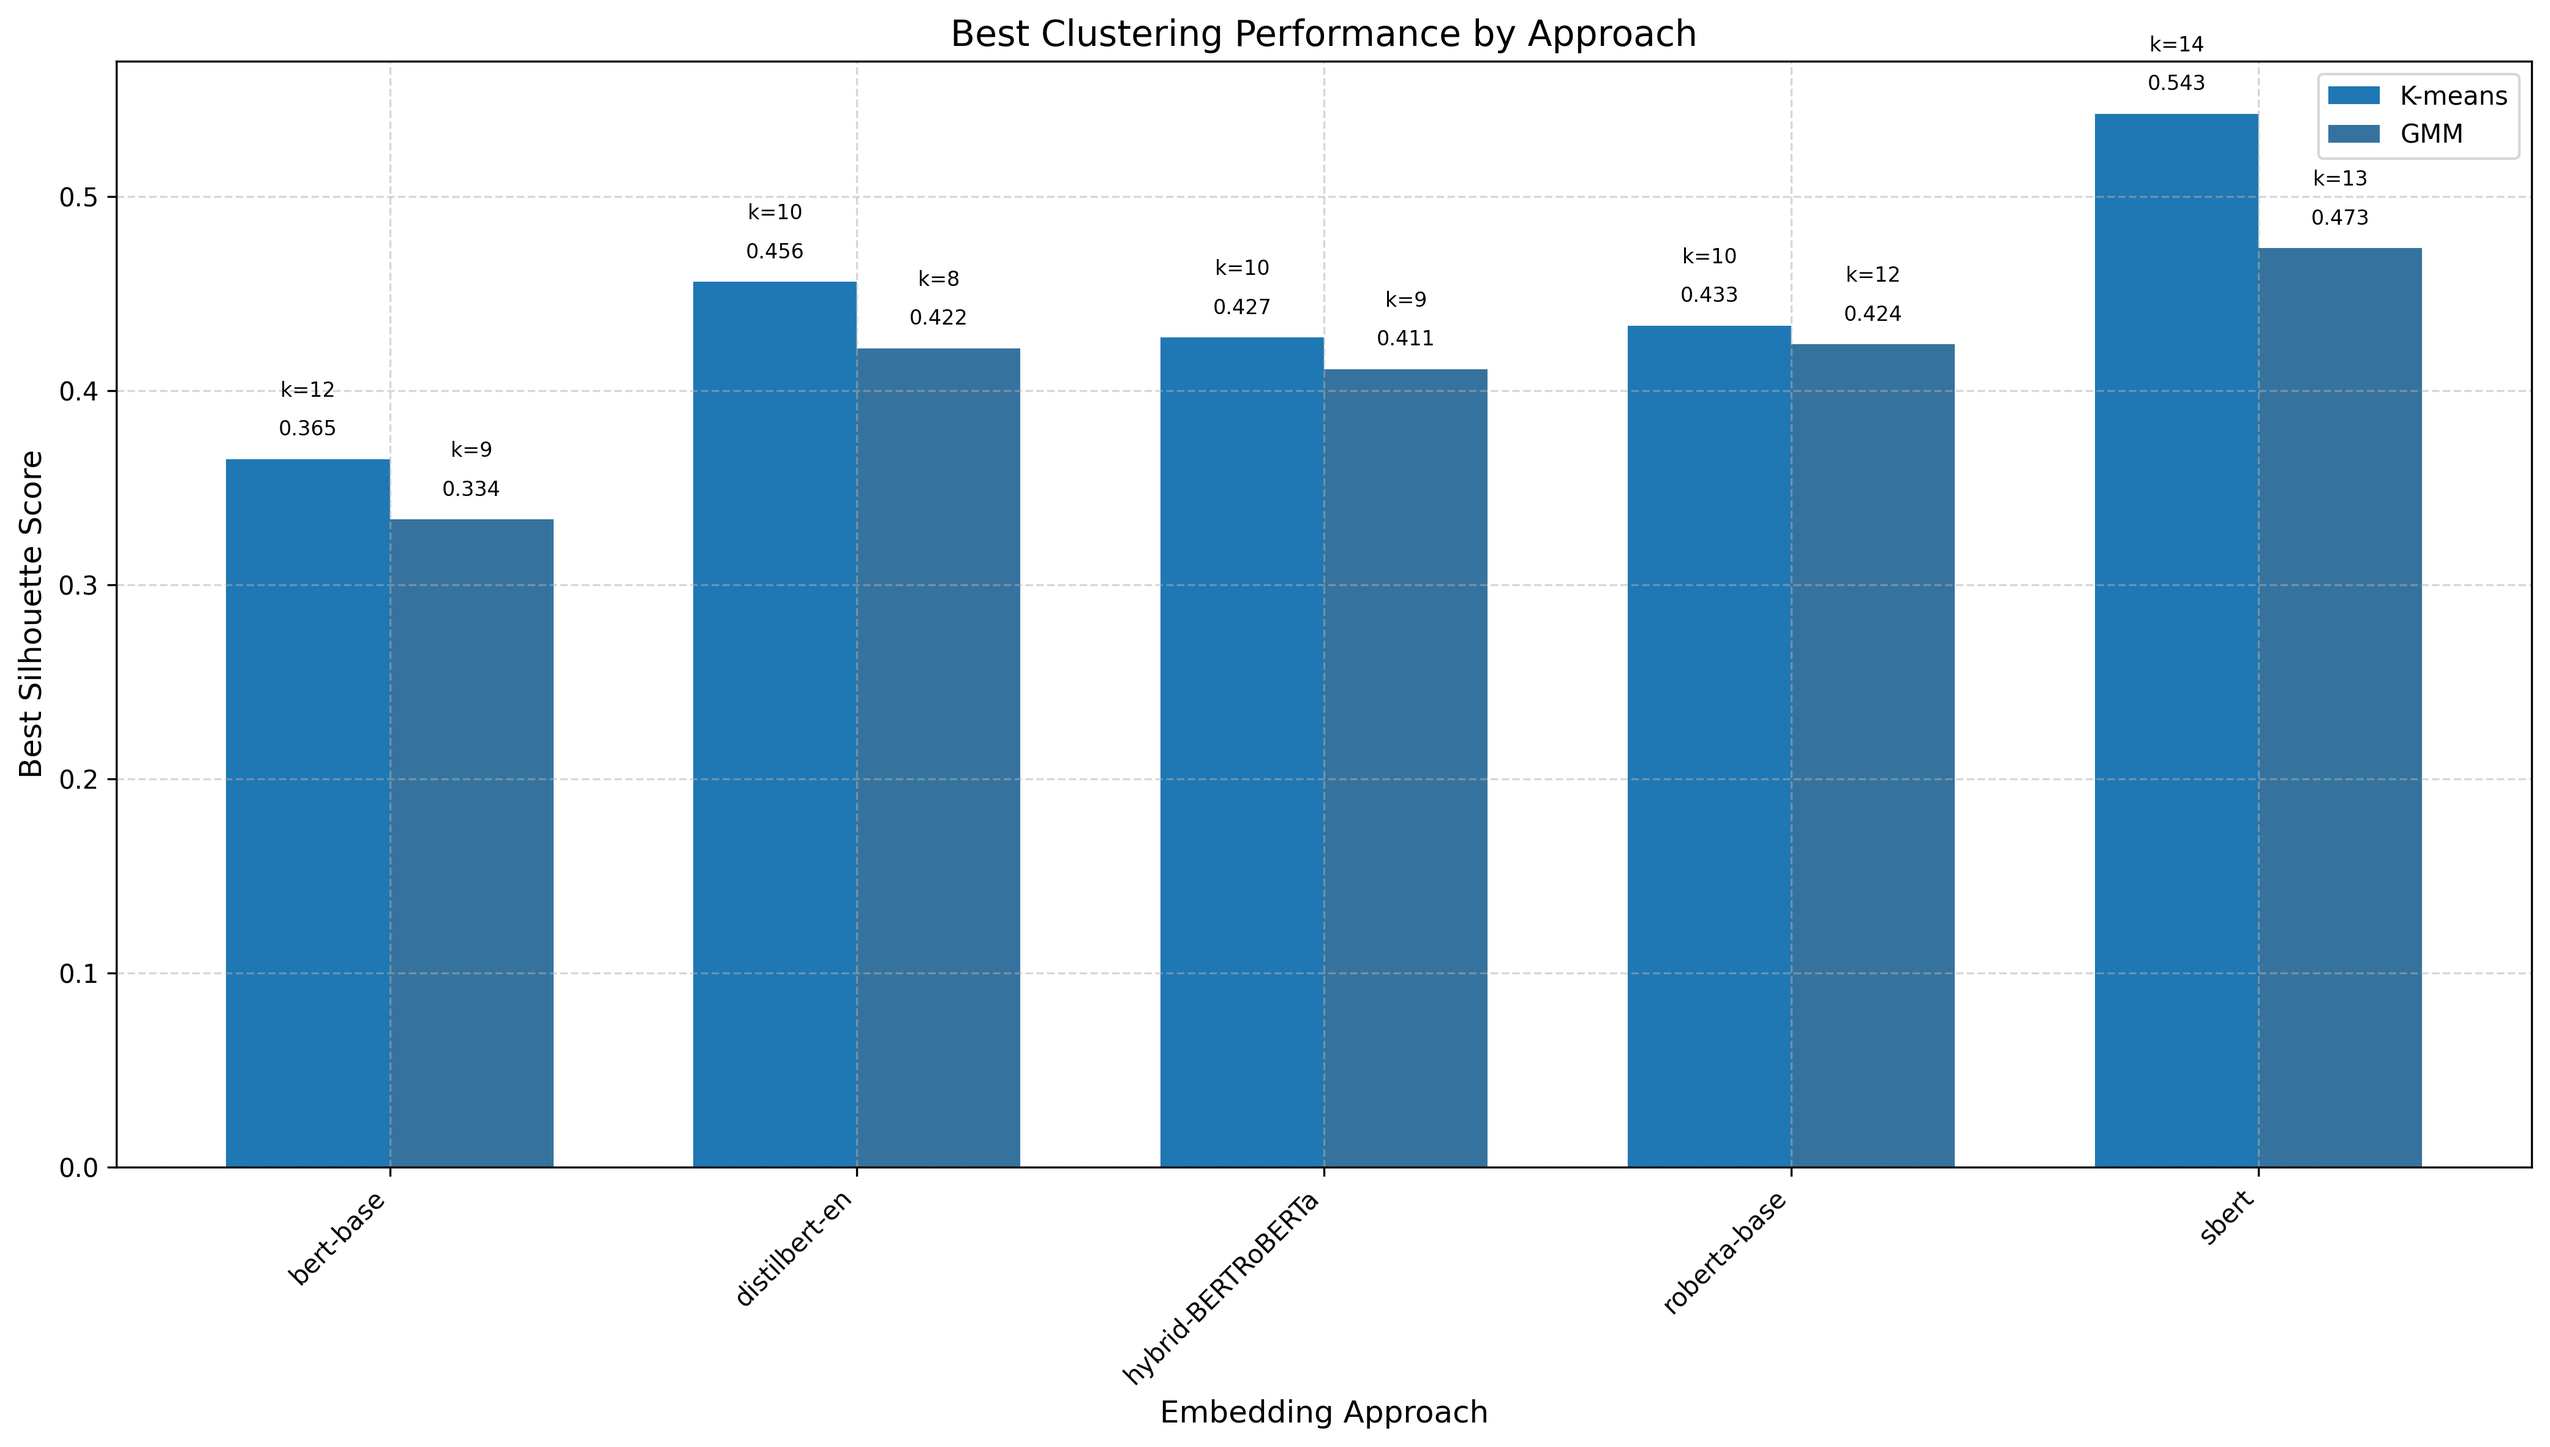
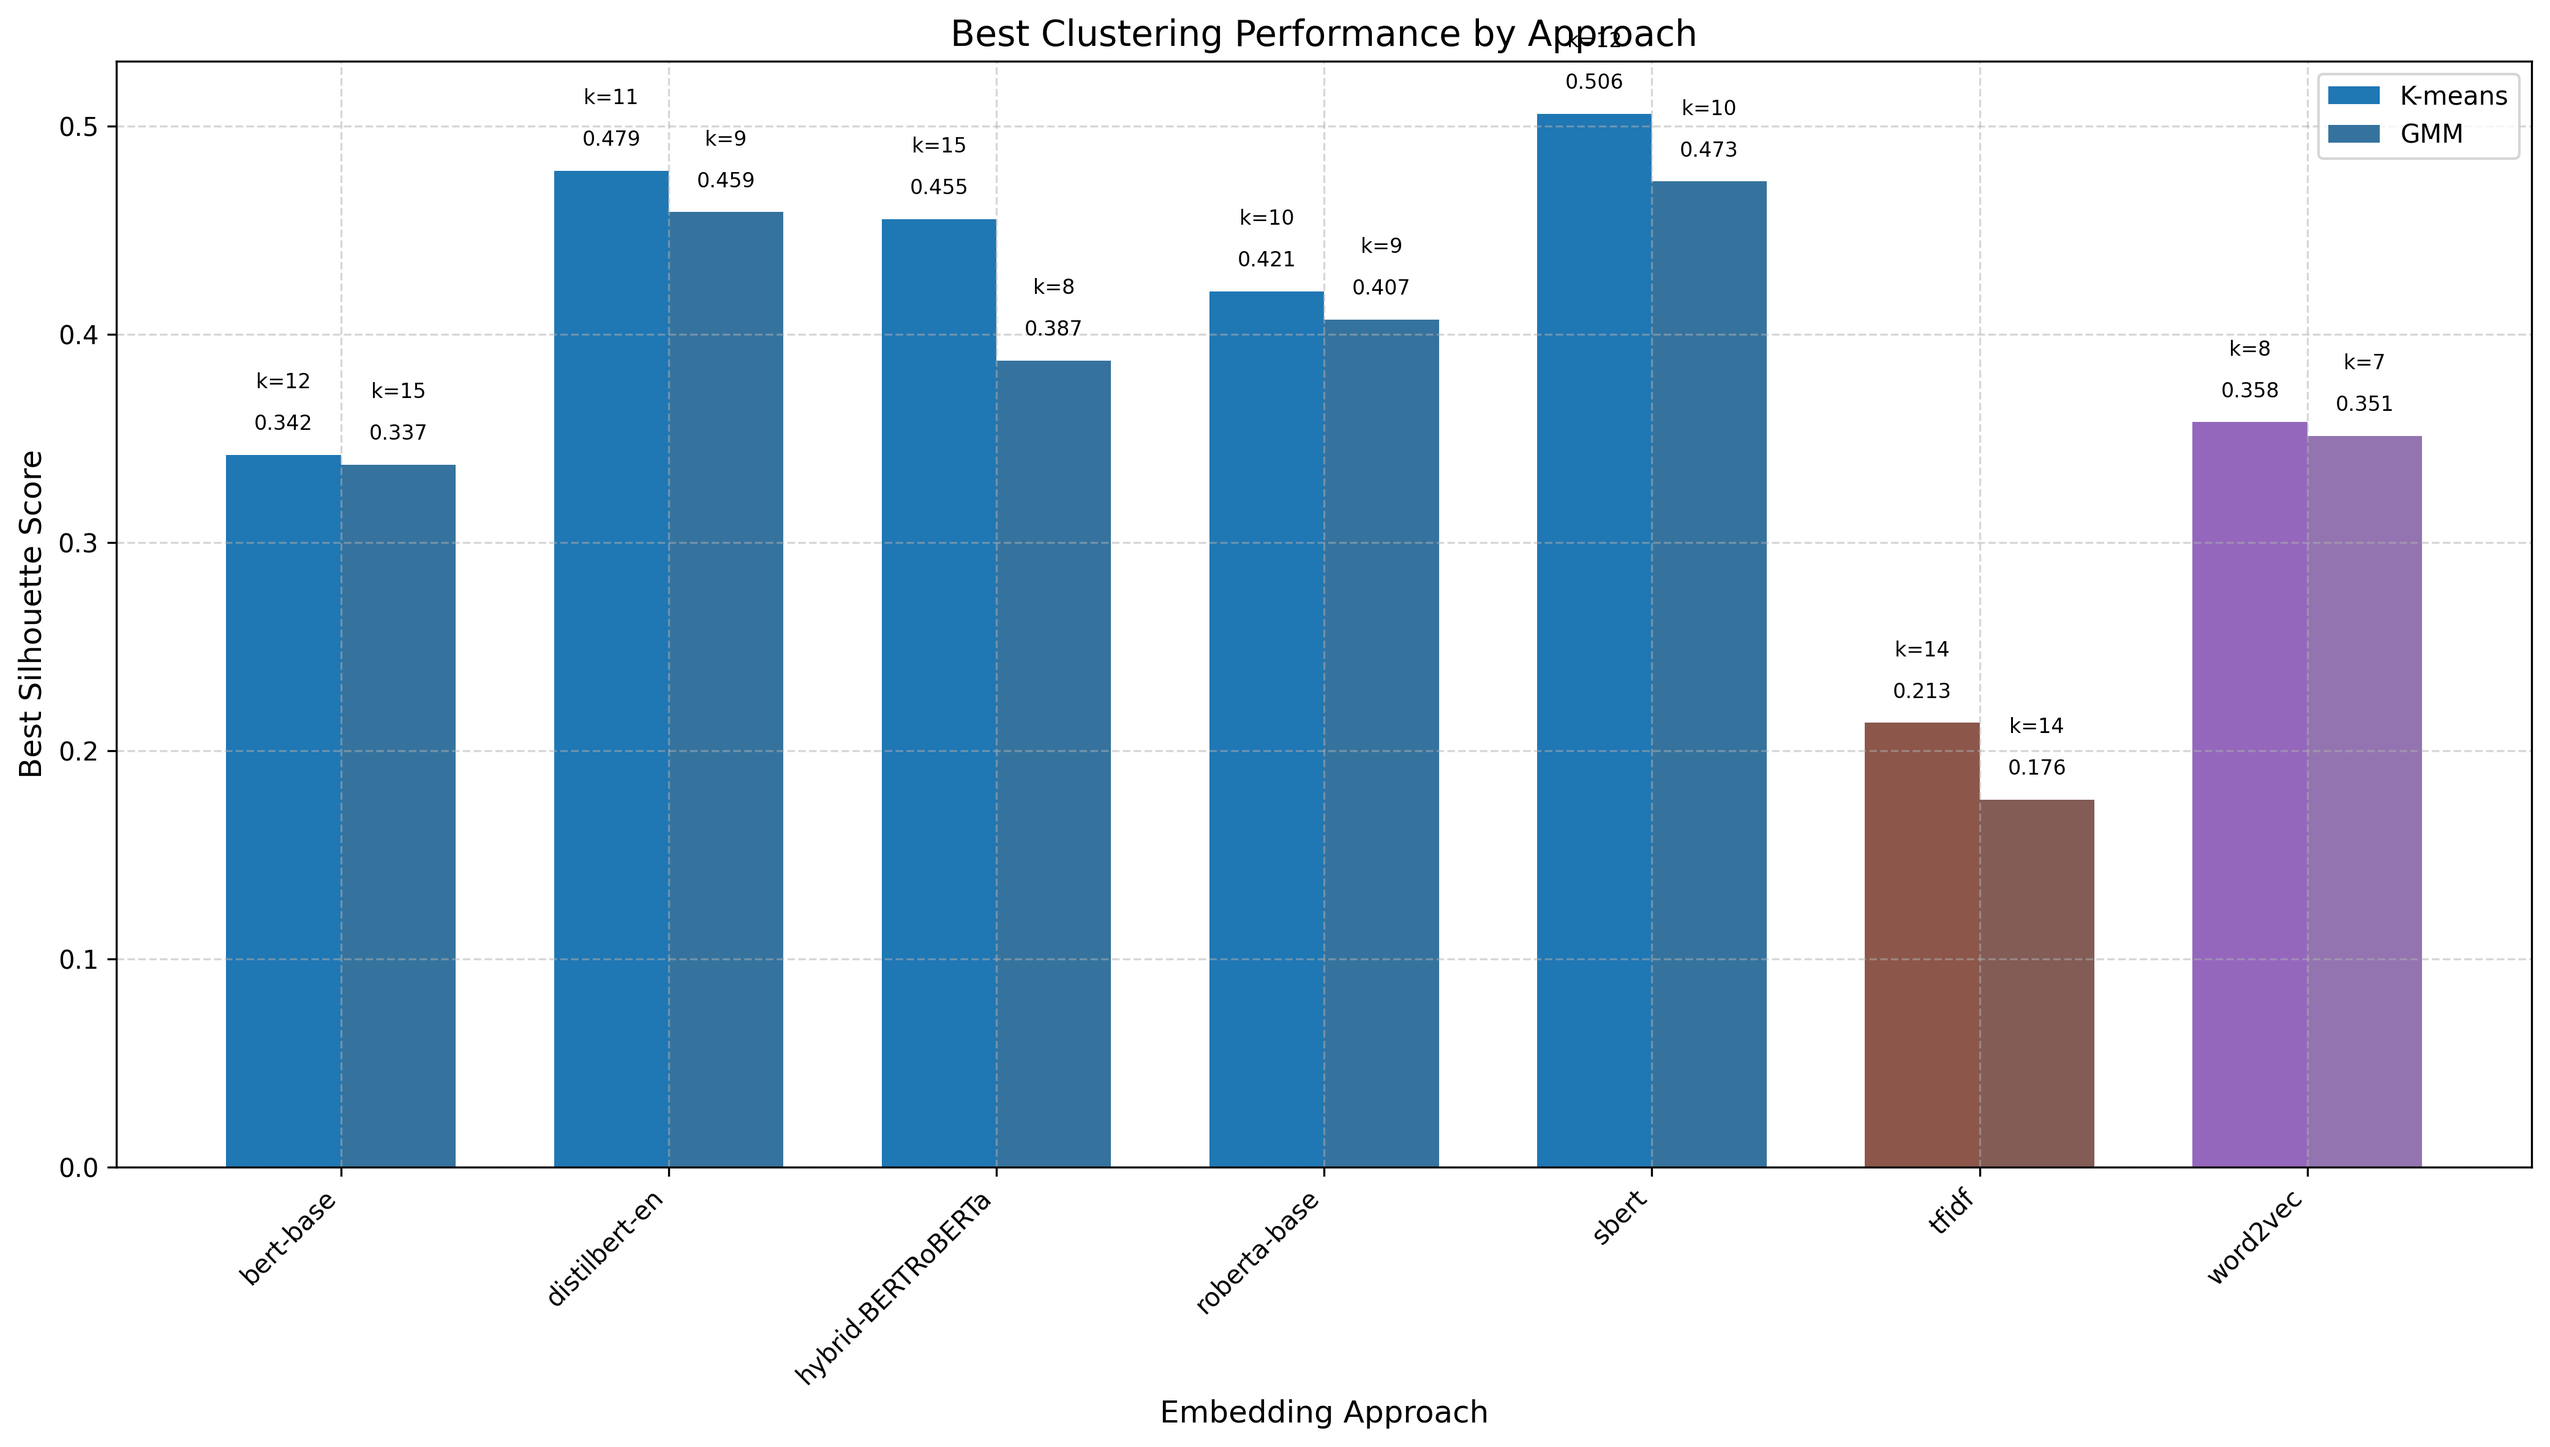
Modify ae

diff --git a/config.py b/config.py
@@ -36,8 +36,8 @@ AUTOENCODER_CHOICE = "ae"  # Options: "ae" or "vae"
 # You can disable specific method groups by commenting them out
 VECTORIZE_METHODS = [
     'transformers',  # Will expand to all transformer models defined below
-   # 'tfidf',
-    #'word2vec'
+    'tfidf',
+    'word2vec'
 ]
 
 # =====================================================================

diff --git a/Results/English/AE/clustering_report.md b/Results/English/AE/clustering_report.md
@@ -7,21 +7,25 @@ Autoencoder: ae
 
 | Approach             | Category     |  K-means Best k |  K-means Score  | GMM Best k | GMM Score  |
 |----------------------|--------------|-----------------|-----------------|------------|------------|
-| sbert                | BERT-family  |        14       |      0.5426     |     13     |   0.4734   |
-| distilbert-en        | BERT-family  |        10       |      0.4560     |     8      |   0.4217   |
-| roberta-base         | BERT-family  |        10       |      0.4334     |     12     |   0.4238   |
-| hybrid-BERTRoBERTa   | BERT-family  |        10       |      0.4273     |     9      |   0.4111   |
-| bert-base            | BERT-family  |        12       |      0.3646     |     9      |   0.3336   |
+| sbert                | BERT-family  |        12       |      0.5058     |     10     |   0.4733   |
+| distilbert-en        | BERT-family  |        11       |      0.4785     |     9      |   0.4586   |
+| hybrid-BERTRoBERTa   | BERT-family  |        15       |      0.4553     |     8      |   0.3873   |
+| roberta-base         | BERT-family  |        10       |      0.4205     |     9      |   0.4071   |
+| word2vec             | Word2Vec     |        8        |      0.3577     |     7      |   0.3510   |
+| bert-base            | BERT-family  |        12       |      0.3419     |     15     |   0.3373   |
+| tfidf                | TF-IDF       |        14       |      0.2133     |     14     |   0.1764   |
 
 
 ## Analysis
 
 The top-performing approaches were:
 
-1. **sbert** (BERT-family) with silhouette score 0.5426
-2. **distilbert-en** (BERT-family) with silhouette score 0.4560
-3. **roberta-base** (BERT-family) with silhouette score 0.4334
+1. **sbert** (BERT-family) with silhouette score 0.5058
+2. **distilbert-en** (BERT-family) with silhouette score 0.4785
+3. **hybrid-BERTRoBERTa** (BERT-family) with silhouette score 0.4553
 
 ### Performance by Category
 
-- **BERT-family**: Average silhouette score 0.4448 (K-means), 0.4127 (GMM)
+- **BERT-family**: Average silhouette score 0.4404 (K-means), 0.4127 (GMM)
+- **Word2Vec**: Average silhouette score 0.3577 (K-means), 0.3510 (GMM)
+- **TF-IDF**: Average silhouette score 0.2133 (K-means), 0.1764 (GMM)
